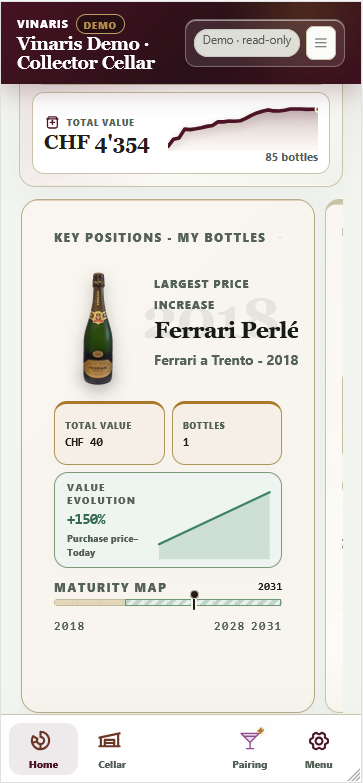
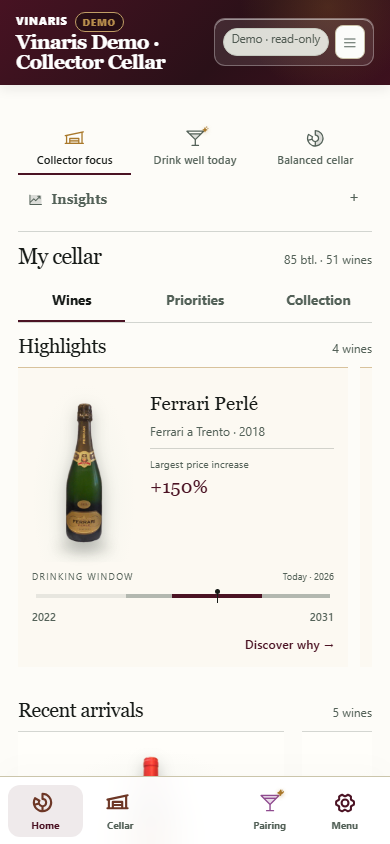
Improve landing demo entry and refresh real product screenshots

diff --git a/frontend/src/views/PublicLanding.css b/frontend/src/views/PublicLanding.css
@@ -100,7 +100,7 @@
 .marketing-landing p { margin: 0; }
 .marketing-landing h1,
 .marketing-landing h2 { font-family: Georgia, "Times New Roman", serif; font-weight: 500; letter-spacing: -.047em; text-wrap: balance; }
-.marketing-landing h1 { max-width: 9.4ch; font-size: clamp(3.6rem, 6vw, 6.8rem); line-height: .91; }
+.marketing-landing h1 { max-width: 15ch; font-size: clamp(3rem, 4.8vw, 5.4rem); line-height: 1.02; }
 .marketing-landing h2 { max-width: 14ch; font-size: clamp(2.55rem, 4.7vw, 5.1rem); line-height: .96; }
 .marketing-landing h3 { font-size: 1.06rem; letter-spacing: -.02em; }
 .marketing-kicker { color: var(--mk-gold); font-size: .72rem; font-weight: 900; letter-spacing: .14em; text-transform: uppercase; }
@@ -112,7 +112,7 @@
 .marketing-hero {
   position: relative;
   display: grid;
-  grid-template-columns: minmax(340px, 43fr) minmax(620px, 57fr);
+  grid-template-columns: minmax(0, 43fr) minmax(0, 57fr);
   min-height: min(660px, calc(100vh - 108px));
   border: 1px solid var(--mk-line);
   border-radius: 30px;
@@ -123,7 +123,9 @@
 }
 .marketing-hero::before { position: absolute; top: 0; bottom: 0; left: 43%; width: 1px; background: var(--mk-line); content: ""; }
 .marketing-hero-copy { position: relative; z-index: 2; display: grid; align-content: center; gap: 23px; padding: clamp(40px, 4.5vw, 68px); }
-.marketing-hero-copy::before { position: absolute; top: 7%; left: 8%; width: 160px; height: 160px; border: 1px solid rgba(173, 131, 57, .19); border-radius: 50%; content: ""; }
+.marketing-demo-note { color: var(--mk-muted); font-size: .8rem; line-height: 1.5; }
+.marketing-register-link { justify-self: start; min-height: 44px; padding: 8px 0; border: 0; border-radius: 0; box-shadow: none; color: var(--mk-wine); background: transparent; text-align: left; text-decoration: underline; text-underline-offset: 4px; cursor: pointer; }
+.marketing-button:disabled { cursor: wait; opacity: .7; transform: none; }
 .marketing-hero-lead { max-width: 42ch; color: #343c35; font-size: clamp(1.08rem, 1.55vw, 1.32rem); font-weight: 570; line-height: 1.56; }
 .marketing-hero-proof { display: flex; flex-wrap: wrap; gap: 9px 20px; padding-top: 20px; border-top: 1px solid var(--mk-line); color: var(--mk-muted); font-size: .72rem; }
 .marketing-hero-proof span { display: inline-flex; align-items: center; gap: 7px; }
@@ -247,8 +249,8 @@
   .marketing-header nav { display: grid; gap: 0; }.marketing-header nav a { min-height: 44px; padding: 13px 4px; border-bottom: 1px solid rgba(213,201,170,.65); }.marketing-header nav a::after { display: none; }
   .marketing-header-actions { display: grid; grid-template-columns: auto 1fr 1fr; }.marketing-header-actions select { border: 1px solid var(--mk-line); border-radius: 10px; background-color: #fffdf8; }
   .marketing-hero { grid-template-columns: 1fr; min-height: auto; background: linear-gradient(160deg, #f8f4eb 0 45%, #ece9df 45%); }
-  .marketing-hero::before { top: 42%; right: 5%; bottom: auto; left: 5%; width: auto; height: 1px; }
-  .marketing-hero-copy { min-height: 520px; }
+  .marketing-hero::before { display: none; }
+  .marketing-hero-copy { min-height: 0; }
   .marketing-hero-product { min-height: 0; }
   .marketing-product-stage { min-height: 470px; }
   .marketing-origin-section,.marketing-journey-section,.marketing-maturity-section,.marketing-sommelier-section,.marketing-insights-section { grid-template-columns: 1fr; }
@@ -263,8 +265,8 @@
   .marketing-landing { gap: 76px; }
   .marketing-hero { border-radius: 22px; background: linear-gradient(165deg, #f8f4eb 0 48%, #ece9df 48%); }
   .marketing-hero::before { top: 52%; }
-  .marketing-hero-copy { min-height: 570px; padding: 45px 28px 50px; }
-  .marketing-landing h1 { max-width: 8.8ch; font-size: clamp(3.3rem, 15vw, 5.2rem); }.marketing-landing h2 { font-size: clamp(2.45rem, 10vw, 4rem); }
+  .marketing-hero-copy { min-height: 0; gap: 16px; padding: 32px 28px 20px; }
+  .marketing-landing h1 { max-width: 16ch; font-size: clamp(2.6rem, 10vw, 4.5rem); }.marketing-landing h2 { font-size: clamp(2.45rem, 10vw, 4rem); }
   .marketing-hero-lead { font-size: 1.04rem; }.marketing-actions { align-items: stretch; }.marketing-actions .marketing-button { flex: 1 1 190px; }
   .marketing-hero-product { min-height: 0; padding: 32px 18px 24px; }
   .marketing-product-stage { min-height: 444px; }.marketing-product-dashboard { inset: 5% 0 4%; transform: none; }.marketing-product-dashboard > header { grid-template-columns: 1.1fr repeat(2,.55fr); }.marketing-product-dashboard > header .wide { display: none; }.product-dashboard-body { grid-template-columns: 1fr .55fr; }.product-focus-card { grid-template-columns: 55px 1fr; gap: 18px; padding: 25px 20px; }.product-action-card { padding: 25px 12px; }.product-bottle { width: 32px; height: 128px; }.product-bottle::before { top: -36px; left: 10px; width: 12px; height: 40px; }.product-bottle i { top: 45px; width: 24px; height: 43px; }.product-bottle b { top: 59px; left: 9px; width: 14px; height: 14px; }.product-focus-card footer { right: 18px; bottom: 19px; left: 18px; }.product-action-card > div { grid-template-columns: 5px 1fr; }.product-action-card > div em { display: none; }.marketing-floating-ai { top: 0; right: 0; }
@@ -283,7 +285,7 @@
   .marketing-mobile-login { min-height: 38px; padding: 0 11px; font-size: .75rem; }
   .marketing-header-actions { grid-template-columns: 74px 1fr; }.marketing-header-actions .primary { grid-column: 1 / -1; }.marketing-header-actions .text { border: 1px solid var(--mk-line); background: #fffdf8; }
   .marketing-hero::before { top: 58%; }
-  .marketing-hero-copy { min-height: 610px; padding: 42px 22px 46px; }.marketing-hero-copy::before { width: 110px; height: 110px; }.marketing-hero-copy .marketing-actions { display: grid; }.marketing-hero-copy .marketing-button { width: 100%; }
+  .marketing-hero-copy { min-height: 0; padding: 26px 22px 12px; }.marketing-hero-copy .marketing-actions { display: grid; }.marketing-hero-copy .marketing-button { width: 100%; }
   .marketing-hero-proof { display: grid; }
   .marketing-hero-product { min-height: 0; padding: 28px 11px 20px; }
   .marketing-product-stage { min-height: 397px; }.marketing-product-dashboard { right: 2px; left: 2px; }.marketing-product-dashboard > header { grid-template-columns: 1.25fr .65fr; min-height: 68px; }.marketing-product-dashboard > header .product-kpi:nth-of-type(3) { display: none; }.product-dashboard-body { grid-template-columns: 1fr; }.product-action-card { display: none; }.product-focus-card { border-right: 0; }.product-focus-card > div strong { font-size: 2.1rem; }.product-focus-card > em { font-size: 4.4rem; }.marketing-floating-ai { right: 5px; }.marketing-floating-ai strong { font-size: .6rem; }
@@ -322,7 +324,11 @@
   gap: 2rem;
 }
 
-.marketing-seo-section > .marketing-section-copy { grid-column: 1 / -1; }
+.marketing-seo-section > .marketing-section-copy { min-width: 0; }
+.marketing-regions-preview { align-self: center; min-width: 0; margin: 0; }
+.marketing-regions-preview img { display: block; width: 100%; height: auto; border: 1px solid var(--mk-line); border-radius: 18px; box-shadow: var(--mk-shadow); }
+.marketing-regions-preview figcaption { display: grid; gap: 6px; padding-top: 14px; color: var(--mk-muted); font-size: .8rem; line-height: 1.5; }
+.marketing-regions-preview figcaption span { color: #806530; font-size: .65rem; font-weight: 900; letter-spacing: .08em; text-transform: uppercase; }
 .marketing-seo-regions, .marketing-seo-faq { min-width: 0; }
 .marketing-seo-regions h3, .marketing-seo-faq h3 { margin: 0 0 .65rem; }
 .marketing-seo-regions p { margin-top: 0; }
@@ -343,6 +349,6 @@
 .marketing-seo-faq summary { cursor: pointer; font-weight: 700; }
 .marketing-seo-faq details p { margin: .55rem 0 0; }
 
-@media (max-width: 700px) {
+@media (max-width: 900px) {
   .marketing-seo-section { grid-template-columns: 1fr; }
 }

diff --git a/frontend/src/views/PublicLanding.tsx b/frontend/src/views/PublicLanding.tsx
@@ -54,6 +54,8 @@ const seoContent = {
     title: "Cantina vino digitale per collezionisti e sommelier",
     body: "Vinaris è una cantina digitale privata per organizzare bottiglie, annate, produttori, valore e finestre di beva. È pensata per chi cerca un wine cellar moderno, per il collezionista e per chi vuole un sommelier AI che conosca davvero i vini presenti in cantina.",
     regionsTitle: "Regioni vinicole e denominazioni",
+    mapAlt: "Mappa reale delle regioni dei vini nella cantina demo Vinaris",
+    mapCaption: "Le regioni della cantina demo, a colpo d’occhio.",
     regionsBody: "Organizza la tua collezione per regione produttrice e scopri l’equilibrio della cantina tra grandi classici italiani e internazionali.",
     regions: ["Ticino", "Piemonte", "Toscana", "Veneto", "Borgogna", "Bordeaux", "Champagne", "Rodano", "Rioja", "Napa Valley"],
     faqTitle: "Domande frequenti su Vinaris",
@@ -68,6 +70,8 @@ const seoContent = {
     title: "Digital wine cellar for collectors and sommeliers",
     body: "Vinaris is a private digital wine cellar for organising bottles, vintages, producers, value, and drinking windows. It is built for collectors and for anyone who wants an AI sommelier that understands the wines in their own cellar.",
     regionsTitle: "Wine regions and classic appellations",
+    mapAlt: "Real map of the wine regions in the Vinaris demo cellar",
+    mapCaption: "The demo cellar’s wine regions, at a glance.",
     regionsBody: "Organise your collection by producing region and understand the balance between classic Italian and international wines.",
     regions: ["Ticino", "Piedmont", "Tuscany", "Veneto", "Burgundy", "Bordeaux", "Champagne", "Rhône", "Rioja", "Napa Valley"],
     faqTitle: "Frequently asked questions about Vinaris",
@@ -104,8 +108,7 @@ export default function PublicLanding({
   const seo = seoContent[locale];
   const desktopDemoImage = locale === "it" ? "/landing/vinaris-demo-desktop-it.png" : "/landing/vinaris-demo-desktop-en.png";
   const mobileDemoImage = locale === "it" ? "/landing/vinaris-demo-mobile-it.png" : "/landing/vinaris-demo-mobile-en.png";
-  const desktopDemoSize = locale === "it" ? { width: 1675, height: 938 } : { width: 1668, height: 936 };
-  const mobileDemoSize = locale === "it" ? { width: 361, height: 782 } : { width: 363, height: 783 };
+  const mobileDemoSize = { width: 390, height: 844 };
   const openingLabel = locale === "it" ? "Apertura…" : "Opening…";
 
   useEffect(() => {
@@ -169,12 +172,12 @@ export default function PublicLanding({
             <h1 id="marketing-title">{copy.hero.title}</h1>
             <p className="marketing-hero-lead">{copy.hero.lead}</p>
             <div className="marketing-actions">
-              <button type="button" className="marketing-button primary" onClick={onRegister}>{copy.hero.primary}</button>
-              <a className="marketing-button secondary" href="#product">{copy.hero.secondary}</a>
-              <button type="button" className="marketing-button secondary marketing-demo-button" onClick={onDemo} disabled={demoLoading}>
-                <span aria-hidden="true">↗</span>{demoLoading ? openingLabel : copy.hero.demo}
+              <button type="button" className="marketing-button primary" onClick={onDemo} disabled={demoLoading} aria-describedby="demo-note">
+                {demoLoading ? openingLabel : copy.hero.demo}
               </button>
             </div>
+            <p id="demo-note" className="marketing-demo-note">{copy.hero.demoNote}</p>
+            <button type="button" className="marketing-register-link" onClick={onRegister}>{copy.hero.primary} →</button>
             <div className="marketing-hero-proof">
               <span><i />{dynamicCopy.hero.signal}</span>
               <span>{dynamicCopy.hero.web}</span>
@@ -182,15 +185,16 @@ export default function PublicLanding({
           </div>
           <figure data-reveal className="marketing-hero-product marketing-real-product">
             <picture>
+              <source media="(max-width: 600px)" srcSet={`/landing/demo-drink-mobile-${locale}.png`} width={330} height={257} />
               <img
-                src={desktopDemoImage}
-                alt={copy.origin.desktopAlt}
-                width={desktopDemoSize.width}
-                height={desktopDemoSize.height}
+                src={`/landing/demo-drink-desktop-${locale}.png`}
+                alt={copy.hero.previewAlt}
+                width={1144}
+                height={locale === "it" ? 733 : 732}
                 fetchPriority="high"
               />
             </picture>
-            <figcaption><span>{copy.origin.demoLabel}</span><strong>{copy.origin.desktopCaption}</strong></figcaption>
+            <figcaption><span>{copy.origin.demoLabel}</span><strong>{copy.hero.previewCaption}</strong></figcaption>
           </figure>
         </section>
 
@@ -268,6 +272,10 @@ export default function PublicLanding({
             <h2 id="seo-title">{seo.title}</h2>
             <p>{seo.body}</p>
           </div>
+          <figure className="marketing-regions-preview">
+            <img src={`/landing/demo-regions-${locale}.png`} alt={seo.mapAlt} width={760} height={361} loading="lazy" />
+            <figcaption><span>{copy.origin.demoLabel}</span>{seo.mapCaption}</figcaption>
+          </figure>
           <div className="marketing-seo-regions">
             <h3>{seo.regionsTitle}</h3>
             <p>{seo.regionsBody}</p>
@@ -285,8 +293,8 @@ export default function PublicLanding({
             <h2>{copy.closing.title}</h2>
             <p>{copy.closing.body}</p>
             <div className="marketing-actions">
-              <button type="button" className="marketing-button primary" onClick={onRegister}>{copy.closing.primary}</button>
-              <button type="button" className="marketing-button secondary" onClick={onDemo} disabled={demoLoading}>{demoLoading ? openingLabel : copy.closing.demo}</button>
+              <button type="button" className="marketing-button primary" onClick={onDemo} disabled={demoLoading}>{demoLoading ? openingLabel : copy.closing.demo}</button>
+              <button type="button" className="marketing-button secondary" onClick={onRegister}>{copy.closing.primary}</button>
             </div>
           </div>
           <aside aria-label={copy.nav.pricing}>

diff --git a/frontend/e2e/landing.spec.ts b/frontend/e2e/landing.spec.ts
@@ -1,0 +1,75 @@
+import { expect, test } from "@playwright/test";
+
+test.beforeEach(async ({ page }) => {
+  await page.route("**/api/v1/session", route => route.fulfill({ json: { authenticated: false } }));
+  await page.route("**/api/v1/public-config", route => route.fulfill({ json: { free_tier_label_limit: 23 } }));
+  await page.addInitScript(() => localStorage.setItem("vinaris.cookie-consent", JSON.stringify({ marketing: false, updatedAt: "2026-09-23T00:00:00Z" })));
+});
+
+for (const locale of ["it", "en"] as const) {
+  test(`${locale}: demo and real screenshots stay usable on mobile and desktop`, async ({ page }, testInfo) => {
+    await page.goto(`/?lang=${locale}`);
+    const hero = page.getByRole("region", { name: locale === "it" ? "Quale vino apri stasera?" : "Know what to drink. Know what to keep." });
+    const demo = hero.getByRole("button", { name: locale === "it" ? "Prova la cantina demo" : "Try the demo cellar" });
+    for (const viewport of [{ width: 360, height: 800 }, { width: 390, height: 844 }, { width: 430, height: 932 }, { width: 1440, height: 1000 }]) {
+      await page.setViewportSize(viewport);
+      await expect(demo).toBeVisible();
+      const headingBox = await hero.getByRole("heading").boundingBox();
+      const buttonBox = await demo.boundingBox();
+      expect(buttonBox!.y).toBeGreaterThan(headingBox!.y + headingBox!.height);
+      expect(buttonBox!.y + buttonBox!.height).toBeLessThan(viewport.height);
+      expect(buttonBox!.height).toBeGreaterThanOrEqual(44);
+      expect(buttonBox!.x).toBeGreaterThanOrEqual(0);
+      expect(buttonBox!.x + buttonBox!.width).toBeLessThanOrEqual(viewport.width);
+      expect(await page.evaluate(() => document.documentElement.scrollWidth <= document.documentElement.clientWidth)).toBe(true);
+      const screenshot = hero.getByRole("img");
+      await expect.poll(() => screenshot.evaluate((img: HTMLImageElement) => img.complete && img.naturalWidth > 0)).toBe(true);
+      expect(await screenshot.evaluate((img: HTMLImageElement) => img.currentSrc)).toContain(`demo-drink-${viewport.width <= 600 ? "mobile" : "desktop"}-${locale}.png`);
+      const imageBox = await screenshot.boundingBox();
+      expect(imageBox!.x).toBeGreaterThanOrEqual(0);
+      expect(imageBox!.x + imageBox!.width).toBeLessThanOrEqual(viewport.width);
+      if (viewport.width === 390 || viewport.width === 1440) {
+        await page.screenshot({ path: testInfo.outputPath(`landing-${locale}-${viewport.width}.png`) });
+      }
+    }
+    await expect(hero.getByText(/23/)).toBeVisible();
+    const collectorPreview = page.getByRole("img", { name: locale === "it" ? "Dashboard mobile reale della cantina demo Vinaris" : "Real mobile dashboard of the Vinaris demo cellar" });
+    // The founder section must use the current 390 × 844 mobile capture.
+    await expect.poll(() => collectorPreview.evaluate((img: HTMLImageElement) => [img.naturalWidth, img.naturalHeight])).toEqual([390, 844]);
+    for (const width of [390, 1440]) {
+      await page.setViewportSize({ width, height: width === 390 ? 844 : 1000 });
+      await page.locator('#product').screenshot({ path: testInfo.outputPath(`founder-${locale}-${width}.png`) });
+    }
+    const knowledge = page.getByRole("region", { name: locale === "it" ? "Cantina vino digitale per collezionisti e sommelier" : "Digital wine cellar for collectors and sommeliers" });
+    const regionsMap = knowledge.getByRole("img");
+    for (const width of [360, 390, 430, 1440]) {
+      await page.setViewportSize({ width, height: width === 1440 ? 1000 : 844 });
+      await regionsMap.scrollIntoViewIfNeeded();
+      await expect.poll(() => regionsMap.evaluate((img: HTMLImageElement) => img.complete && img.naturalWidth > 0)).toBe(true);
+      await expect(regionsMap).toHaveAttribute("src", `/landing/demo-regions-${locale}.png`);
+      const mapBox = (await regionsMap.boundingBox())!;
+      const textBox = (await knowledge.getByRole("heading", { level: 2 }).boundingBox())!;
+      expect(mapBox.x).toBeGreaterThanOrEqual(0);
+      expect(mapBox.x + mapBox.width).toBeLessThanOrEqual(width);
+      if (width === 1440) expect(mapBox.x).toBeGreaterThan(textBox.x + textBox.width);
+      else expect(mapBox.y).toBeGreaterThan(textBox.y + textBox.height);
+      expect(await page.evaluate(() => document.documentElement.scrollWidth <= document.documentElement.clientWidth)).toBe(true);
+      if (width === 390 || width === 1440) await knowledge.screenshot({ path: testInfo.outputPath(`regions-${locale}-${width}.png`) });
+    }
+    // Delay the demo response to verify immediate feedback and prevent repeated requests.
+    let release!: () => void;
+    const pending = new Promise<void>(resolve => { release = resolve; });
+    await page.route("**/api/v1/auth/demo?**", async route => {
+      await pending;
+      await route.fulfill({ status: 503, json: { detail: "Demo temporarily unavailable" } });
+    });
+    const request = page.waitForRequest("**/api/v1/auth/demo?**");
+    await demo.click();
+    expect((await request).method()).toBe("POST");
+    await expect(hero.getByRole("button", { name: /Apertura|Opening/ })).toBeDisabled();
+    release();
+    await expect(demo).toBeEnabled();
+    await hero.getByRole("button", { name: locale === "it" ? /Crea la tua cantina/ : /Build your cellar/ }).click();
+    await expect(page.getByRole("textbox", { name: locale === "it" ? "Conferma password" : "Confirm password", exact: true })).toBeVisible();
+  });
+}

diff --git a/frontend/src/views/landing/content.ts b/frontend/src/views/landing/content.ts
@@ -10,6 +10,9 @@ export type LandingCopy = {
     primary: string;
     secondary: string;
     demo: string;
+    demoNote: string;
+    previewCaption: string;
+    previewAlt: string;
     signal: string;
     web: string;
   };
@@ -99,14 +102,17 @@ export const landingCopy: Record<Locale, LandingCopy> = {
     nav: { product: "Prodotto", maturity: "Finestra di beva", sommelier: "Sommelier", insights: "Analisi", pricing: "Accesso" },
     header: { login: "Accedi", register: "Inizia", menu: "Apri menu", close: "Chiudi menu", language: "Lingua" },
     hero: {
-      eyebrow: "Private Cellar Intelligence",
-      title: "Il vino giusto. Al momento giusto.",
-      lead: "Gestisci la cantina, segui la maturità di ogni bottiglia e ricevi indicazioni costruite sui vini che possiedi davvero.",
+      eyebrow: "L’app per i vini che possiedi",
+      title: "Quale vino apri stasera?",
+      lead: "Organizza la tua cantina, scopri quali bottiglie sono pronte e quali lasciare riposare. Parti da una cantina già pronta da esplorare.",
       primary: "Crea la tua cantina",
       secondary: "Scopri come funziona",
-      demo: "Esplora la cantina demo",
+      demo: "Prova la cantina demo",
+      demoNote: "Senza registrazione · Cantina dimostrativa in sola lettura",
+      previewCaption: "Dalla demo: i vini da bere oggi",
+      previewAlt: "Schermata reale della demo Vinaris: selezione di vini pronti da bere con finestre di beva",
       signal: "Gratis con tutte le funzioni private fino a 15 etichette attive",
-      web: "Web app privata · piano gratuito disponibile",
+      web: "Dal browser, anche sul telefono",
     },
     value: [
       { title: "Trova ogni bottiglia", body: "Ricerca, filtri, fotografie, formati e posizione: la collezione resta leggibile mentre cresce." },
@@ -197,7 +203,7 @@ export const landingCopy: Record<Locale, LandingCopy> = {
       title: "La collezione esiste già. Vinaris ti aiuta a comprenderla.",
       body: "Costruisci un archivio privato che accompagna acquisti, attese, aperture e memoria nel tempo.",
       primary: "Inizia con Degustazione",
-      demo: "Guarda la cantina demo",
+      demo: "Prova la cantina demo",
       tiers: [
         { label: "Piano gratuito", name: "Degustazione", body: "Tutte le funzioni private, fino a 15 etichette attive.", note: "Le funzioni AI si usano con un AI Pack." },
         { label: "Per collezionisti", name: "Riserva", body: "Per collezioni oltre 15 etichette attive e per chi desidera ancora più libertà.", note: "AI Pack o chiave OpenAI personale inclusi." },
@@ -211,14 +217,17 @@ export const landingCopy: Record<Locale, LandingCopy> = {
     nav: { product: "Product", maturity: "Drinking window", sommelier: "Sommelier", insights: "Insights", pricing: "Access" },
     header: { login: "Log in", register: "Get started", menu: "Open menu", close: "Close menu", language: "Language" },
     hero: {
-      eyebrow: "Private Cellar Intelligence",
+      eyebrow: "The app for the wines you own",
       title: "Know what to drink. Know what to keep.",
-      lead: "Manage your cellar, follow every bottle’s maturity, and get intelligent recommendations based on the wines you actually own.",
+      lead: "Organise your cellar, discover which bottles are ready and which to keep. Start by exploring a cellar that is already stocked.",
       primary: "Build your cellar",
       secondary: "See how it works",
-      demo: "Explore the demo cellar",
+      demo: "Try the demo cellar",
+      demoNote: "No sign-up · Read-only demo cellar",
+      previewCaption: "From the demo: wines to drink today",
+      previewAlt: "Real Vinaris demo screenshot: wines ready to drink with their drinking windows",
       signal: "Free with every private feature for up to 15 active labels",
-      web: "Private web app · free tier available",
+      web: "In your browser, on your phone too",
     },
     value: [
       { title: "Find every bottle", body: "Search, filters, photographs, formats, and location keep the collection readable as it grows." },
@@ -309,7 +318,7 @@ export const landingCopy: Record<Locale, LandingCopy> = {
       title: "Your cellar already has a story. Vinaris helps you understand it.",
       body: "Build a private archive that supports purchases, patience, openings, and memory over time.",
       primary: "Start with Tasting",
-      demo: "View the demo cellar",
+      demo: "Try the demo cellar",
       tiers: [
         { label: "Free plan", name: "Tasting", body: "Every private feature, for up to 15 active labels.", note: "AI features use an AI Pack." },
         { label: "For collectors", name: "Reserve", body: "For collections over 15 active labels and those who want more freedom.", note: "Use an AI Pack or a personal OpenAI key." },

diff --git a/docs/landing-demo.md b/docs/landing-demo.md
@@ -1,0 +1,38 @@
+# Landing demo screenshots
+
+The landing page leads with the read-only demo, without registration. The hero
+uses actual captures of the public demo's **Drink well today** view: one wine
+recommendation on phones, and the evening selection on larger screens.
+Italian and English captures are separate. The founder section shows a current
+mobile collector screenshot (390 × 844), with the Wines/Priorities/Collection tabs.
+The cellar knowledge section places a real demo region map beside the introduction
+on desktop and below it on phones. Map captures retain the map attribution and
+load lazily; the landing page does not request live map tiles.
+
+To refresh these captures from the public demo, from `frontend/`:
+
+```powershell
+$env:Path = "C:\ERI\node;$env:Path"
+node scripts/capture-landing-demo.mjs
+# Refresh the founder section's mobile collector screenshots only:
+node scripts/capture-landing-demo.mjs --collector-only
+# Refresh the real region map beside the cellar knowledge text:
+node scripts/capture-landing-demo.mjs --map-only
+```
+
+This opens the public demo, rejects optional cookies, and captures existing UI
+without changing wine data. Review the generated images for loaded bottle photos,
+unobstructed controls, and correct language. If capture dimensions change, update
+the image dimensions in `PublicLanding.tsx` too.
+
+Targeted validation:
+
+```powershell
+npx playwright test e2e/landing.spec.ts e2e/cookie-consent.spec.ts
+npm run build
+```
+
+Landing tests cover Italian/English, 360/390/430 px phones and desktop, viewport
+overflow, button geometry, responsive image selection, demo loading/retry and
+registration access. Review the screenshots in `frontend/test-results/` after
+running them; these are temporary review artifacts, not committed baselines.
